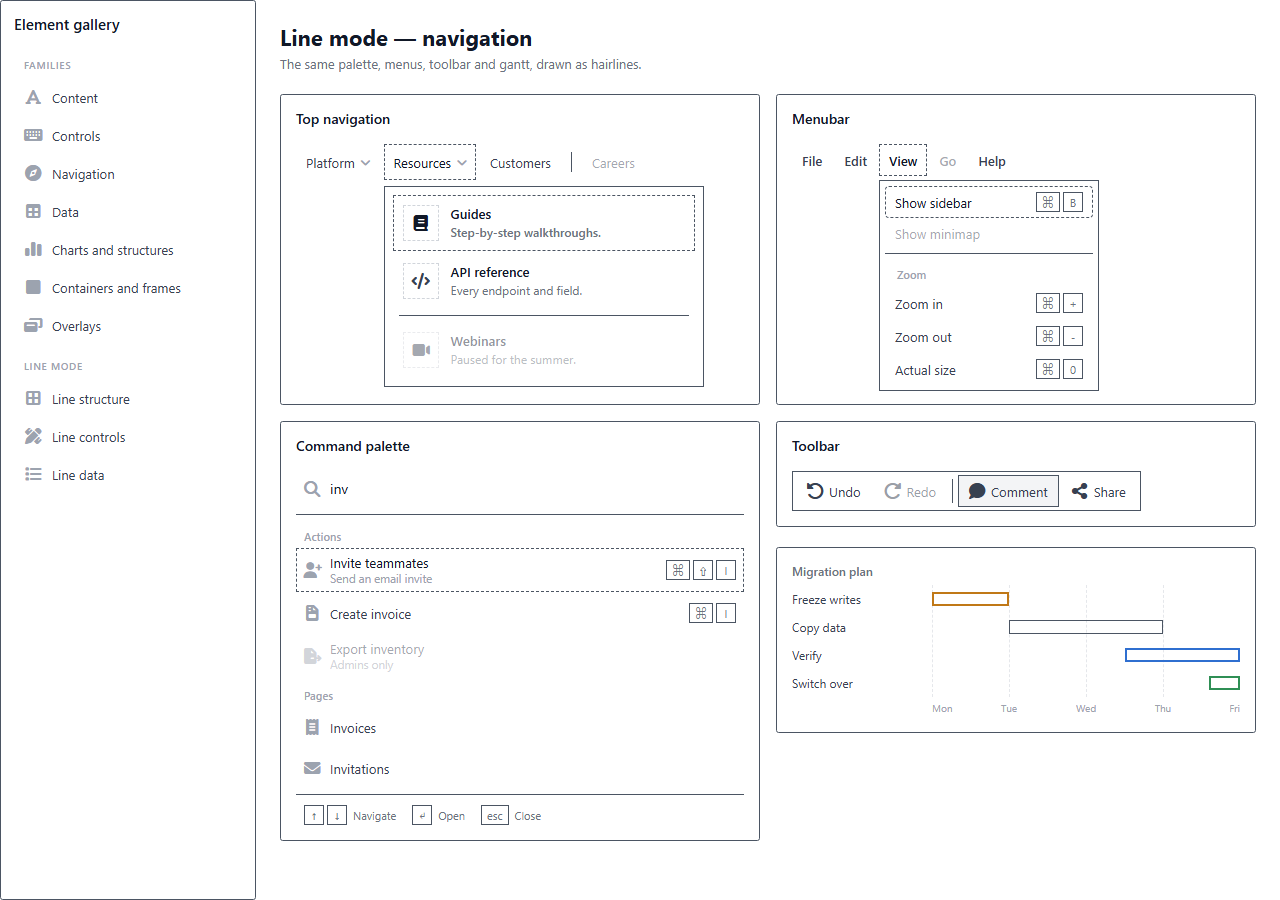
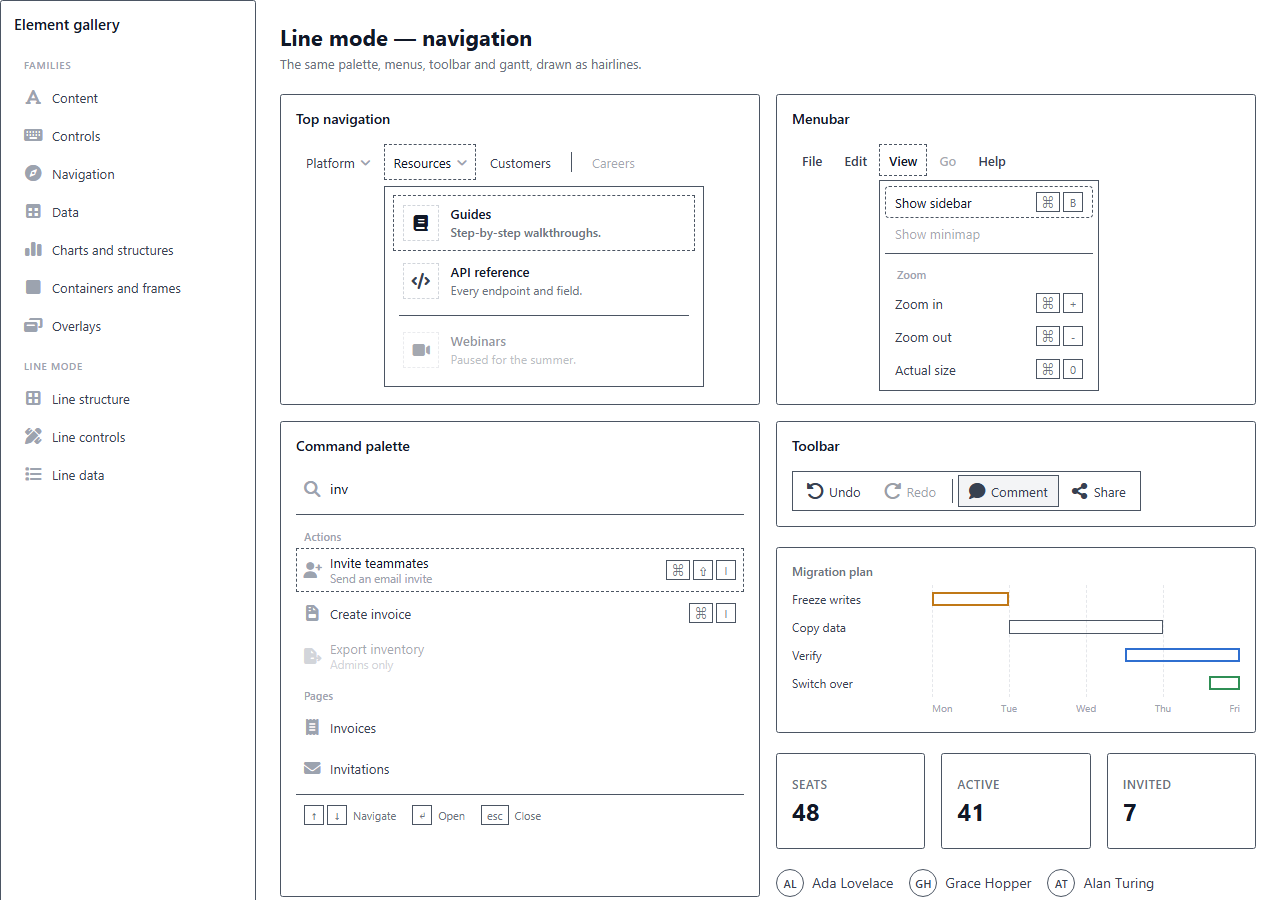
Refresh the review evidence for repeat and the final numbers

diff --git a/docs/reviews/component-library-20261118/README.md b/docs/reviews/component-library-20261118/README.md
@@ -1,7 +1,7 @@
 # Component library expansion: review evidence
 
 This adds new elements, a shared item and field contract, component slots, eight
-built-in `std.*` patterns and a measurement overlay. Existing YAML keeps its markup;
+built-in `std.*` patterns, `repeat` (one cell per keyed item) and a measurement overlay. Existing YAML keeps its markup;
 the only additions are state and ARIA attributes. Existing pixels are unchanged
 except for the fixes listed below. The design and every decision made while
 building it are in
@@ -10,19 +10,25 @@ building it are in
 ## Revisions and hosts
 
 - Before: `origin/main` at `eeebd2b`.
-- After: `claude/component-library`, captured at `5b4beea`. The commits after it change
-  runtime behaviour, validation and docs only. Both gallery baseline sets regenerate
-  byte-identical after it.
+- After: `claude/component-library`, captured at `5b4beea`. The two navigation pages
+  were recaptured at `172100b` to show `repeat`. Other later commits change runtime
+  behaviour, validation and docs only; both gallery baseline sets regenerate unchanged.
 - Screenshots: Maxis (Windows 11) with Playwright Chromium. Gallery and pattern pages
   are captured at 1280×900, full page. The admin editor is captured at 1600×1000, with
   both revisions' Vite servers and a Playwright-mocked API serving the same two-page
   demo project. No real account or data was used.
-- Final suites on Maxis at `ebaf88d`:
-  - CLI 620/620.
-  - Renderer 150/150; the bundle is 438 KB against a 460 KB budget.
-  - Admin 204/206. The two failures in `projectSettingsPage.test.tsx` also fail on
-    `main`.
+- Final suites on Maxis at `172100b`:
+  - CLI 714/714.
+  - Renderer 152/152; the bundle is 445 KB against a 460 KB budget.
+  - Admin: everything passes except the two `projectSettingsPage.test.tsx` failures
+    that also fail on `main`.
 - macOS gallery tests: 8/8 on the Mac mini.
+- The user's iPad (iPad Air 13 M3, real on-device E2B model, engine `7c14f6f`, app
+  branch `claude/component-library-mobile`):
+  - 27-turn suite: 26/27 correct, against 15/27 for the installed app.
+  - Mean time per turn: 6.8 s, against 15.1 s.
+  - Peak memory: 496 MB, against 547 MB.
+  - `repeat` requests: 8/8 correct.
 
 ## Visible changes on existing elements
 
@@ -46,7 +52,7 @@ new examples are appended below the existing ones.
 | **Charts and structures**<br>![Before](evidence/gallery-charts-base.png) | `chart gantt` with ticks, tones, a milestone, placeholders and the empty state<br>![After](evidence/gallery-charts-head.png) |
 | **Containers**<br>![Before](evidence/gallery-containers-base.png) | Card actions: routed, disabled and danger-toned<br>![After](evidence/gallery-containers-head.png) |
 | **Data**<br>![Before](evidence/gallery-data-base.png) | List, tree and accordion item states<br>![After](evidence/gallery-data-head.png) |
-| New page; no earlier equivalent | **App navigation** (card mode), everything inside the 1280×900 screenshot<br>![After](evidence/gallery-app_navigation-head.png) |
+| New page; no earlier equivalent | **App navigation** (card mode), everything inside the 1280×900 screenshot, including `repeat` rows<br>![After](evidence/gallery-app_navigation-head.png) |
 | New page; no earlier equivalent | **Line navigation** (line mode)<br>![After](evidence/gallery-line_navigation-head.png) |
 | New feature; no earlier equivalent | **Measurement overlay** in a standalone page (`m` key): width, height, padding and gap bands<br>![After](evidence/measure-hover.png) |
 | New feature; no earlier equivalent | **`std.site_header`, `std.hero`, `std.site_footer`** in a scratch project, line mode<br>![After](evidence/std-landing.png) |
